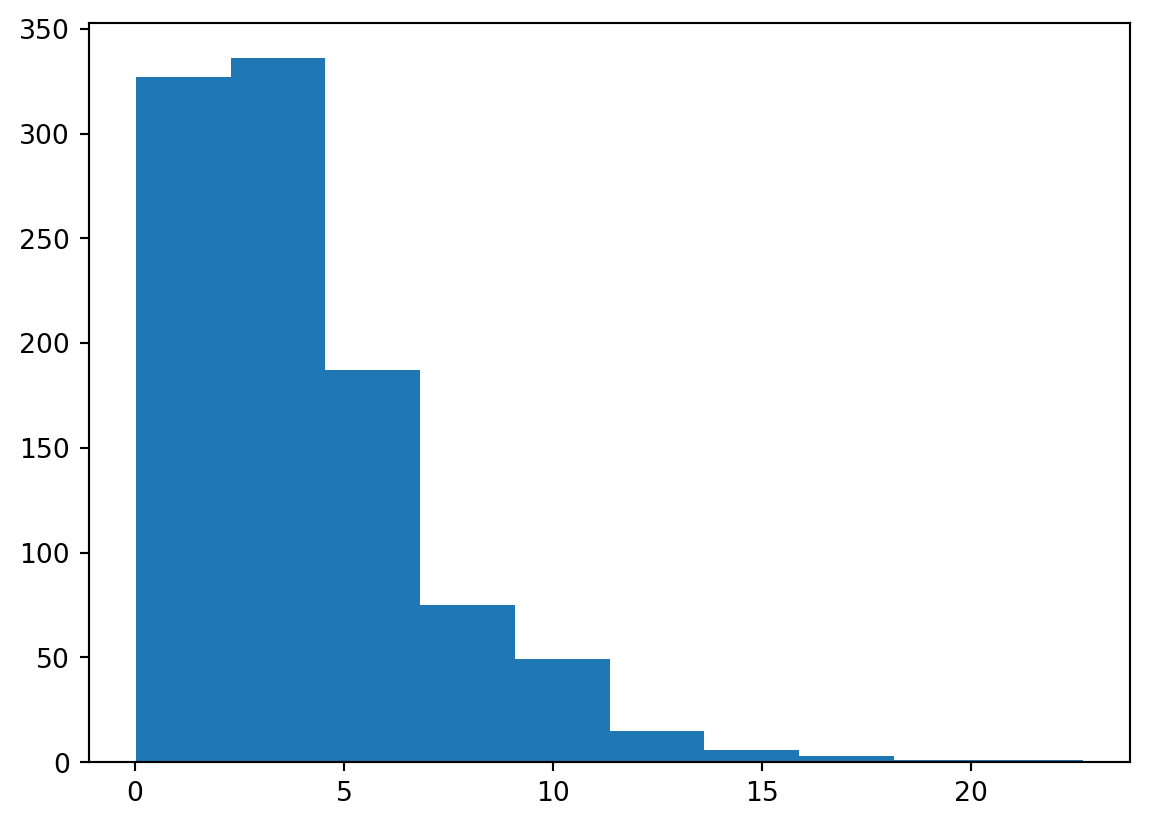
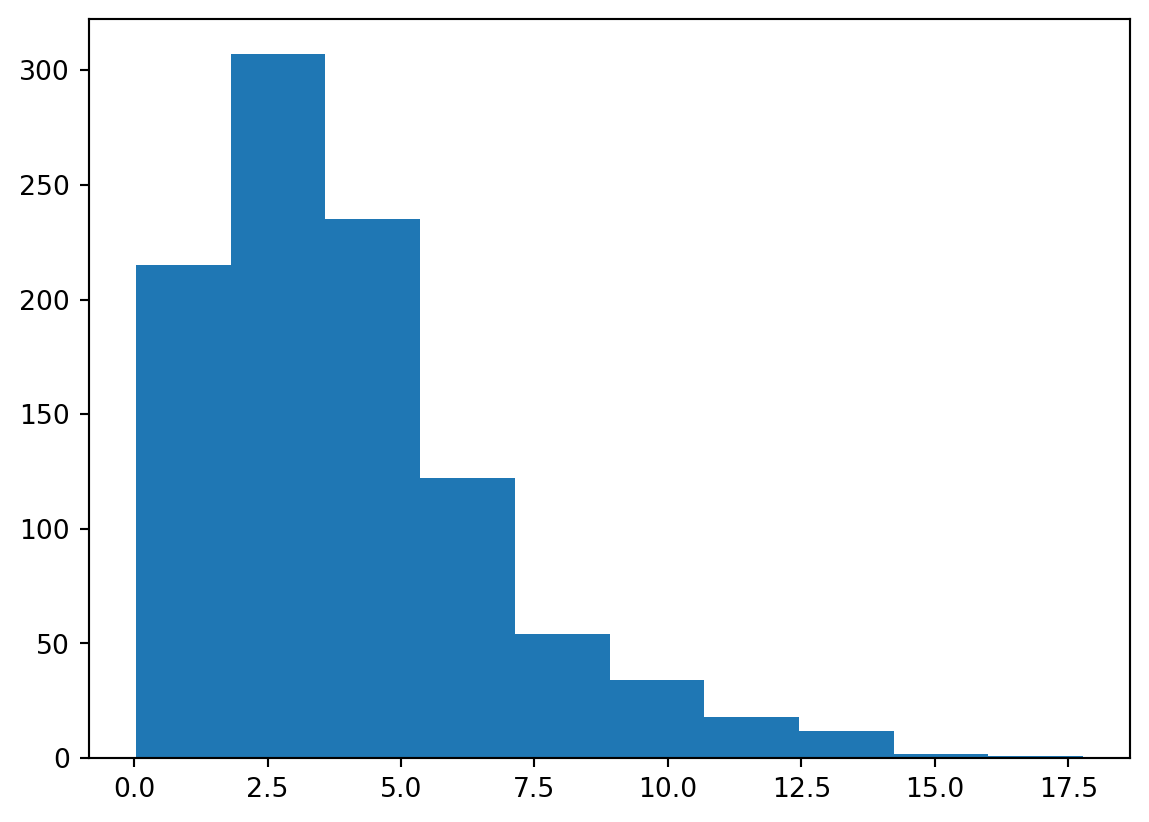
dasdasd

diff --git a/docs/posts/hw8/index.html b/docs/posts/hw8/index.html
@@ -226,7 +226,7 @@ pre > code.sourceCode > span > a:first-child::before { text-decoration: underlin
 </section>
 <section id="adp-실기-시험의-통계파트-표준점수의-밀도함수를-그려보세요." class="level2">
 <h2 class="anchored" data-anchor-id="adp-실기-시험의-통계파트-표준점수의-밀도함수를-그려보세요.">1 ADP 실기 시험의 통계파트 표준점수의 밀도함수를 그려보세요.</h2>
-<div id="41ffb000" class="cell" data-execution_count="1">
+<div id="1f22dc30" class="cell" data-execution_count="1">
 <div class="sourceCode cell-code" id="cb1"><pre class="sourceCode python code-with-copy"><code class="sourceCode python"><span id="cb1-1"><a href="#cb1-1" aria-hidden="true" tabindex="-1"></a><span class="im">import</span> numpy <span class="im">as</span> np</span>
 <span id="cb1-2"><a href="#cb1-2" aria-hidden="true" tabindex="-1"></a><span class="im">from</span> scipy.stats <span class="im">import</span> norm</span>
 <span id="cb1-3"><a href="#cb1-3" aria-hidden="true" tabindex="-1"></a><span class="im">import</span> matplotlib.pyplot <span class="im">as</span> plt</span>
@@ -247,7 +247,7 @@ pre > code.sourceCode > span > a:first-child::before { text-decoration: underlin
 </section>
 <section id="adp-수험생을-임의로-1명-선택하여-통계-점수를-조회했을때-45점-보다-높은-점수를-받았을-확률을-구하세요." class="level2">
 <h2 class="anchored" data-anchor-id="adp-수험생을-임의로-1명-선택하여-통계-점수를-조회했을때-45점-보다-높은-점수를-받았을-확률을-구하세요.">2 ADP 수험생을 임의로 1명 선택하여 통계 점수를 조회했을때 45점 보다 높은 점수를 받았을 확률을 구하세요.</h2>
-<div id="cdf400e3" class="cell" data-execution_count="2">
+<div id="840d1fd1" class="cell" data-execution_count="2">
 <div class="sourceCode cell-code" id="cb2"><pre class="sourceCode python code-with-copy"><code class="sourceCode python"><span id="cb2-1"><a href="#cb2-1" aria-hidden="true" tabindex="-1"></a>a <span class="op">=</span> <span class="dv">1</span> <span class="op">-</span> norm.cdf(<span class="dv">45</span>, <span class="dv">30</span>, <span class="dv">5</span>)</span>
 <span id="cb2-2"><a href="#cb2-2" aria-hidden="true" tabindex="-1"></a>a</span></code><button title="Copy to Clipboard" class="code-copy-button"><i class="bi"></i></button></pre></div>
 <div class="cell-output cell-output-display" data-execution_count="2">
@@ -257,7 +257,7 @@ pre > code.sourceCode > span > a:first-child::before { text-decoration: underlin
 </section>
 <section id="슬통이는-상위-10에-해당하는-점수를-얻었다고-한다면-슬통이의-점수는-얼마인지-계산해보세요." class="level2">
 <h2 class="anchored" data-anchor-id="슬통이는-상위-10에-해당하는-점수를-얻었다고-한다면-슬통이의-점수는-얼마인지-계산해보세요.">3 슬통이는 상위 10%에 해당하는 점수를 얻었다고 한다면, 슬통이의 점수는 얼마인지 계산해보세요.</h2>
-<div id="1cf6354a" class="cell" data-execution_count="3">
+<div id="46f83a67" class="cell" data-execution_count="3">
 <div class="sourceCode cell-code" id="cb4"><pre class="sourceCode python code-with-copy"><code class="sourceCode python"><span id="cb4-1"><a href="#cb4-1" aria-hidden="true" tabindex="-1"></a>a <span class="op">=</span> norm.ppf(<span class="fl">0.9</span>, <span class="dv">30</span>, <span class="dv">5</span>)</span>
 <span id="cb4-2"><a href="#cb4-2" aria-hidden="true" tabindex="-1"></a>a</span></code><button title="Copy to Clipboard" class="code-copy-button"><i class="bi"></i></button></pre></div>
 <div class="cell-output cell-output-display" data-execution_count="3">
@@ -267,7 +267,7 @@ pre > code.sourceCode > span > a:first-child::before { text-decoration: underlin
 </section>
 <section id="슬기로운-통계생활의-해당-회차-수강생은-16명이었다고-한다.-16명의-통계-파트-점수를-평균을-내었을-때-이-평균값이-따르는-분포의-확률밀도-함수를-1번의-그래프와-겹쳐-그려보세요." class="level2">
 <h2 class="anchored" data-anchor-id="슬기로운-통계생활의-해당-회차-수강생은-16명이었다고-한다.-16명의-통계-파트-점수를-평균을-내었을-때-이-평균값이-따르는-분포의-확률밀도-함수를-1번의-그래프와-겹쳐-그려보세요.">4 슬기로운 통계생활의 해당 회차 수강생은 16명이었다고 한다. 16명의 통계 파트 점수를 평균을 내었을 때, 이 평균값이 따르는 분포의 확률밀도 함수를 1번의 그래프와 겹쳐 그려보세요.</h2>
-<div id="7f40c356" class="cell" data-execution_count="4">
+<div id="a5463b03" class="cell" data-execution_count="4">
 <div class="sourceCode cell-code" id="cb6"><pre class="sourceCode python code-with-copy"><code class="sourceCode python"><span id="cb6-1"><a href="#cb6-1" aria-hidden="true" tabindex="-1"></a><span class="im">import</span> numpy <span class="im">as</span> np</span>
 <span id="cb6-2"><a href="#cb6-2" aria-hidden="true" tabindex="-1"></a><span class="im">from</span> scipy.stats <span class="im">import</span> norm</span>
 <span id="cb6-3"><a href="#cb6-3" aria-hidden="true" tabindex="-1"></a><span class="im">import</span> matplotlib.pyplot <span class="im">as</span> plt</span>
@@ -295,7 +295,7 @@ pre > code.sourceCode > span > a:first-child::before { text-decoration: underlin
 </section>
 <section id="슬기로운-통계생활-adp-반-수강생들의-통계점수를-평균내었다고-할-때-이-값이-38점보다-높게-나올-확률을-구하세요." class="level2">
 <h2 class="anchored" data-anchor-id="슬기로운-통계생활-adp-반-수강생들의-통계점수를-평균내었다고-할-때-이-값이-38점보다-높게-나올-확률을-구하세요.">5 슬기로운 통계생활 ADP 반 수강생들의 통계점수를 평균내었다고 할 때, 이 값이 38점보다 높게 나올 확률을 구하세요.</h2>
-<div id="611e2e00" class="cell" data-execution_count="5">
+<div id="8edc2b56" class="cell" data-execution_count="5">
 <div class="sourceCode cell-code" id="cb7"><pre class="sourceCode python code-with-copy"><code class="sourceCode python"><span id="cb7-1"><a href="#cb7-1" aria-hidden="true" tabindex="-1"></a><span class="im">from</span> scipy.stats <span class="im">import</span> norm</span>
 <span id="cb7-2"><a href="#cb7-2" aria-hidden="true" tabindex="-1"></a></span>
 <span id="cb7-3"><a href="#cb7-3" aria-hidden="true" tabindex="-1"></a>d <span class="op">=</span> <span class="dv">1</span> <span class="op">-</span> norm.cdf(<span class="dv">38</span>, <span class="dv">30</span>, <span class="dv">5</span><span class="op">/</span><span class="dv">4</span>)</span>
@@ -310,7 +310,7 @@ pre > code.sourceCode > span > a:first-child::before { text-decoration: underlin
 <h1>2. Covid 19</h1>
 <section id="다잡아-키트가-코로나-바이러스에-걸린-사람을-양성으로-잡아낼-확률을-계산하세요." class="level2">
 <h2 class="anchored" data-anchor-id="다잡아-키트가-코로나-바이러스에-걸린-사람을-양성으로-잡아낼-확률을-계산하세요.">1 다잡아 키트가 코로나 바이러스에 걸린 사람을 양성으로 잡아낼 확률을 계산하세요.</h2>
-<div id="4a05817c" class="cell" data-execution_count="6">
+<div id="92162d41" class="cell" data-execution_count="6">
 <div class="sourceCode cell-code" id="cb9"><pre class="sourceCode python code-with-copy"><code class="sourceCode python"><span id="cb9-1"><a href="#cb9-1" aria-hidden="true" tabindex="-1"></a><span class="co"># P(양성|코로나)</span></span>
 <span id="cb9-2"><a href="#cb9-2" aria-hidden="true" tabindex="-1"></a></span>
 <span id="cb9-3"><a href="#cb9-3" aria-hidden="true" tabindex="-1"></a>a <span class="op">=</span> <span class="dv">370</span><span class="op">/</span><span class="dv">385</span></span>
@@ -322,7 +322,7 @@ pre > code.sourceCode > span > a:first-child::before { text-decoration: underlin
 </section>
 <section id="슬통-회사에서-다잡아-키트를-사용해-양성으로-나온-사람이-실제로는-코로나-바이러스에-걸려-있을-확률을-97라며-키트의-우수성을-주장했다.-이-주장이-옳지-않은-이유를-서술하세요-covid19-발병률을-사용하여-키트의-결과값이-양성으로-나온-사람이-실제로-코로나-바이러스에-걸려있을-확률을-구하세요." class="level2">
 <h2 class="anchored" data-anchor-id="슬통-회사에서-다잡아-키트를-사용해-양성으로-나온-사람이-실제로는-코로나-바이러스에-걸려-있을-확률을-97라며-키트의-우수성을-주장했다.-이-주장이-옳지-않은-이유를-서술하세요-covid19-발병률을-사용하여-키트의-결과값이-양성으로-나온-사람이-실제로-코로나-바이러스에-걸려있을-확률을-구하세요.">2 &amp; 3 슬통 회사에서 다잡아 키트를 사용해 양성으로 나온 사람이 실제로는 코로나 바이러스에 걸려 있을 확률을 97%라며, 키트의 우수성을 주장했다. 이 주장이 옳지 않은 이유를 서술하세요, Covid‑19 발병률을 사용하여, 키트의 결과값이 양성으로 나온 사람이 실제로 코로나 바이러스에 걸려있을 확률을 구하세요.</h2>
-<div id="cfc0ff15" class="cell" data-execution_count="7">
+<div id="d7b36e45" class="cell" data-execution_count="7">
 <div class="sourceCode cell-code" id="cb11"><pre class="sourceCode python code-with-copy"><code class="sourceCode python"><span id="cb11-1"><a href="#cb11-1" aria-hidden="true" tabindex="-1"></a>b <span class="op">=</span> <span class="dv">370</span><span class="op">/</span><span class="dv">380</span></span>
 <span id="cb11-2"><a href="#cb11-2" aria-hidden="true" tabindex="-1"></a>b <span class="co">#0.97</span></span>
 <span id="cb11-3"><a href="#cb11-3" aria-hidden="true" tabindex="-1"></a></span>
@@ -333,16 +333,16 @@ pre > code.sourceCode > span > a:first-child::before { text-decoration: underlin
 <span id="cb11-8"><a href="#cb11-8" aria-hidden="true" tabindex="-1"></a></span>
 <span id="cb11-9"><a href="#cb11-9" aria-hidden="true" tabindex="-1"></a>c <span class="op">=</span> <span class="fl">0.01</span></span>
 <span id="cb11-10"><a href="#cb11-10" aria-hidden="true" tabindex="-1"></a></span>
-<span id="cb11-11"><a href="#cb11-11" aria-hidden="true" tabindex="-1"></a>p_c <span class="op">=</span> <span class="dv">370</span><span class="op">/</span><span class="dv">385</span> <span class="op">*</span> <span class="fl">0.01</span></span>
-<span id="cb11-12"><a href="#cb11-12" aria-hidden="true" tabindex="-1"></a>p_not_c <span class="op">=</span> <span class="dv">10</span><span class="op">/</span><span class="dv">700</span> <span class="op">*</span> <span class="fl">0.99</span></span>
+<span id="cb11-11"><a href="#cb11-11" aria-hidden="true" tabindex="-1"></a>p_c <span class="op">=</span> <span class="dv">370</span><span class="op">/</span><span class="dv">385</span> </span>
+<span id="cb11-12"><a href="#cb11-12" aria-hidden="true" tabindex="-1"></a>p_not_c <span class="op">=</span> <span class="dv">10</span><span class="op">/</span><span class="dv">700</span> </span>
 <span id="cb11-13"><a href="#cb11-13" aria-hidden="true" tabindex="-1"></a></span>
-<span id="cb11-14"><a href="#cb11-14" aria-hidden="true" tabindex="-1"></a>p <span class="op">=</span> p_c <span class="op">+</span> p_not_c </span>
+<span id="cb11-14"><a href="#cb11-14" aria-hidden="true" tabindex="-1"></a>p <span class="op">=</span> p_c <span class="op">*</span> <span class="fl">0.01</span> <span class="op">+</span> p_not_c  <span class="op">*</span> <span class="fl">0.99</span></span>
 <span id="cb11-15"><a href="#cb11-15" aria-hidden="true" tabindex="-1"></a></span>
 <span id="cb11-16"><a href="#cb11-16" aria-hidden="true" tabindex="-1"></a>c_p <span class="op">=</span> (c <span class="op">*</span> p_c) <span class="op">/</span> p</span>
 <span id="cb11-17"><a href="#cb11-17" aria-hidden="true" tabindex="-1"></a></span>
 <span id="cb11-18"><a href="#cb11-18" aria-hidden="true" tabindex="-1"></a>c_p <span class="co"># 키트 양성인 사람 중 코로나 양성 확률 </span></span></code><button title="Copy to Clipboard" class="code-copy-button"><i class="bi"></i></button></pre></div>
 <div class="cell-output cell-output-display" data-execution_count="7">
-<pre><code>0.004045926735921268</code></pre>
+<pre><code>0.4045926735921268</code></pre>
 </div>
 </div>
 <section id="는-사전-확률이고-베이즈-정리를-통해-나온-약-40의-사후-확률이-더-정확한-의미에서의-양성으로-나온-사람이-실제로는-코로나-바이러스에-걸려있을-확률이다." class="level3">
@@ -354,7 +354,7 @@ pre > code.sourceCode > span > a:first-child::before { text-decoration: underlin
 <h1>3. 카이제곱분포와 표본분산</h1>
 <section id="자유도가-4인-카이제곱분포의-확률밀도함수를-그려보세요" class="level2">
 <h2 class="anchored" data-anchor-id="자유도가-4인-카이제곱분포의-확률밀도함수를-그려보세요">1 자유도가 4인 카이제곱분포의 확률밀도함수를 그려보세요</h2>
-<div id="20ddf48a" class="cell" data-execution_count="8">
+<div id="295f1d86" class="cell" data-execution_count="8">
 <div class="sourceCode cell-code" id="cb13"><pre class="sourceCode python code-with-copy"><code class="sourceCode python"><span id="cb13-1"><a href="#cb13-1" aria-hidden="true" tabindex="-1"></a><span class="im">from</span> scipy.stats <span class="im">import</span> chi2</span>
 <span id="cb13-2"><a href="#cb13-2" aria-hidden="true" tabindex="-1"></a><span class="im">import</span> numpy <span class="im">as</span> np</span>
 <span id="cb13-3"><a href="#cb13-3" aria-hidden="true" tabindex="-1"></a><span class="im">import</span> matplotlib.pyplot <span class="im">as</span> plt</span>
@@ -375,7 +375,7 @@ pre > code.sourceCode > span > a:first-child::before { text-decoration: underlin
 </section>
 <section id="다음의-확률을-구해보세요-p3-x-5" class="level2">
 <h2 class="anchored" data-anchor-id="다음의-확률을-구해보세요-p3-x-5">2 다음의 확률을 구해보세요 P(3 &lt;= X &lt;= 5)</h2>
-<div id="b468f15f" class="cell" data-execution_count="9">
+<div id="a5b0a55e" class="cell" data-execution_count="9">
 <div class="sourceCode cell-code" id="cb14"><pre class="sourceCode python code-with-copy"><code class="sourceCode python"><span id="cb14-1"><a href="#cb14-1" aria-hidden="true" tabindex="-1"></a>right <span class="op">=</span> chi2.cdf(<span class="dv">5</span>, <span class="dv">4</span>)</span>
 <span id="cb14-2"><a href="#cb14-2" aria-hidden="true" tabindex="-1"></a>left <span class="op">=</span> chi2.cdf(<span class="dv">3</span>, <span class="dv">4</span>)</span>
 <span id="cb14-3"><a href="#cb14-3" aria-hidden="true" tabindex="-1"></a></span>
@@ -387,14 +387,14 @@ pre > code.sourceCode > span > a:first-child::before { text-decoration: underlin
 </section>
 <section id="자유도가-4인-카이제곱분포에서-크기가-1000인-표본을-뽑은-후-히스토그램을-그려보세요." class="level2">
 <h2 class="anchored" data-anchor-id="자유도가-4인-카이제곱분포에서-크기가-1000인-표본을-뽑은-후-히스토그램을-그려보세요.">3 자유도가 4인 카이제곱분포에서 크기가 1000인 표본을 뽑은 후, 히스토그램을 그려보세요.</h2>
-<div id="0682cf48" class="cell" data-execution_count="10">
+<div id="f063c5d9" class="cell" data-execution_count="10">
 <div class="sourceCode cell-code" id="cb16"><pre class="sourceCode python code-with-copy"><code class="sourceCode python"><span id="cb16-1"><a href="#cb16-1" aria-hidden="true" tabindex="-1"></a>a <span class="op">=</span> chi2.rvs(<span class="dv">4</span>, size <span class="op">=</span> <span class="dv">1000</span>)</span>
 <span id="cb16-2"><a href="#cb16-2" aria-hidden="true" tabindex="-1"></a>plt.hist(a)</span>
 <span id="cb16-3"><a href="#cb16-3" aria-hidden="true" tabindex="-1"></a>plt.show()</span></code><button title="Copy to Clipboard" class="code-copy-button"><i class="bi"></i></button></pre></div>
 <div class="cell-output cell-output-display">
 <div>
 <figure class="figure">
-<p><img src="index_files/figure-html/cell-11-output-1.png" width="575" height="413" class="figure-img"></p>
+<p><img src="index_files/figure-html/cell-11-output-1.png" width="575" height="411" class="figure-img"></p>
 </figure>
 </div>
 </div>
@@ -402,7 +402,7 @@ pre > code.sourceCode > span > a:first-child::before { text-decoration: underlin
 </section>
 <section id="자유도가-4인-카이제곱분포를-따르는-확률변수에서-나올-수-있는-값-중-상위-5에-해당하는-값은-얼마인지-계산해보세요." class="level2">
 <h2 class="anchored" data-anchor-id="자유도가-4인-카이제곱분포를-따르는-확률변수에서-나올-수-있는-값-중-상위-5에-해당하는-값은-얼마인지-계산해보세요.">4 자유도가 4인 카이제곱분포를 따르는 확률변수에서 나올 수 있는 값 중 상위 5%에 해당하는 값은 얼마인지 계산해보세요.</h2>
-<div id="dbc4d915" class="cell" data-execution_count="11">
+<div id="4c56c3ef" class="cell" data-execution_count="11">
 <div class="sourceCode cell-code" id="cb17"><pre class="sourceCode python code-with-copy"><code class="sourceCode python"><span id="cb17-1"><a href="#cb17-1" aria-hidden="true" tabindex="-1"></a>chi2.ppf(<span class="fl">0.95</span>, <span class="dv">4</span>)</span></code><button title="Copy to Clipboard" class="code-copy-button"><i class="bi"></i></button></pre></div>
 <div class="cell-output cell-output-display" data-execution_count="11">
 <pre><code>np.float64(9.487729036781154)</code></pre>
@@ -411,7 +411,7 @@ pre > code.sourceCode > span > a:first-child::before { text-decoration: underlin
 </section>
 <section id="번에서-뽑힌-표본값들-중-상위-5에-위치한-표본의-값은-얼마인가요" class="level2">
 <h2 class="anchored" data-anchor-id="번에서-뽑힌-표본값들-중-상위-5에-위치한-표본의-값은-얼마인가요">5 3번에서 뽑힌 표본값들 중 상위 5%에 위치한 표본의 값은 얼마인가요?</h2>
-<div id="104b2541" class="cell" data-execution_count="12">
+<div id="5ce68bf3" class="cell" data-execution_count="12">
 <div class="sourceCode cell-code" id="cb19"><pre class="sourceCode python code-with-copy"><code class="sourceCode python"><span id="cb19-1"><a href="#cb19-1" aria-hidden="true" tabindex="-1"></a>chi2.ppf(<span class="fl">0.9975</span>, <span class="dv">4</span>)</span></code><button title="Copy to Clipboard" class="code-copy-button"><i class="bi"></i></button></pre></div>
 <div class="cell-output cell-output-display" data-execution_count="12">
 <pre><code>np.float64(16.423936124136556)</code></pre>
@@ -420,7 +420,7 @@ pre > code.sourceCode > span > a:first-child::before { text-decoration: underlin
 </section>
 <section id="평균이-3-표준편차가-2인-정규분포를-따르는-확률변수에서-크기가-20인-표본-𝑥1-𝑥20을-뽑은-후-표본분산을-계산한-것을-𝑠21이라-생각해보죠.-다음을-수행해보세요" class="level2">
 <h2 class="anchored" data-anchor-id="평균이-3-표준편차가-2인-정규분포를-따르는-확률변수에서-크기가-20인-표본-𝑥1-𝑥20을-뽑은-후-표본분산을-계산한-것을-𝑠21이라-생각해보죠.-다음을-수행해보세요">6 평균이 3, 표준편차가 2인 정규분포를 따르는 확률변수에서 크기가 20인 표본, 𝑥1, …, 𝑥20,을 뽑은 후 표본분산을 계산한 것을 𝑠21이라 생각해보죠. 다음을 수행해보세요!</h2>
-<div id="4b78830a" class="cell" data-execution_count="13">
+<div id="a3adafe5" class="cell" data-execution_count="13">
 <div class="sourceCode cell-code" id="cb21"><pre class="sourceCode python code-with-copy"><code class="sourceCode python"><span id="cb21-1"><a href="#cb21-1" aria-hidden="true" tabindex="-1"></a>std <span class="op">=</span> []</span>
 <span id="cb21-2"><a href="#cb21-2" aria-hidden="true" tabindex="-1"></a></span>
 <span id="cb21-3"><a href="#cb21-3" aria-hidden="true" tabindex="-1"></a><span class="cf">for</span> i <span class="kw">in</span> <span class="bu">range</span>(<span class="dv">500</span>):</span>
@@ -441,7 +441,7 @@ pre > code.sourceCode > span > a:first-child::before { text-decoration: underlin
 <span id="cb21-18"><a href="#cb21-18" aria-hidden="true" tabindex="-1"></a>plt.legend()</span>
 <span id="cb21-19"><a href="#cb21-19" aria-hidden="true" tabindex="-1"></a>plt.show()</span></code><button title="Copy to Clipboard" class="code-copy-button"><i class="bi"></i></button></pre></div>
 <div class="cell-output cell-output-stderr">
-<pre><code>C:\Users\USER\AppData\Local\Temp\ipykernel_1456\1831535740.py:18: UserWarning:
+<pre><code>C:\Users\USER\AppData\Local\Temp\ipykernel_24432\1831535740.py:18: UserWarning:
 
 No artists with labels found to put in legend.  Note that artists whose label start with an underscore are ignored when legend() is called with no argument.
 </code></pre>

diff --git a/docs/blog.html b/docs/blog.html
@@ -223,7 +223,7 @@ Recent posts
 </div>
 </a>
 </div>
-<div class="g-col-1" data-index="1" data-categories="bigdata" data-listing-date-sort="1725289200000" data-listing-file-modified-sort="1725291398904" data-listing-date-modified-sort="NaN" data-listing-reading-time-sort="3" data-listing-word-count-sort="442">
+<div class="g-col-1" data-index="1" data-categories="bigdata" data-listing-date-sort="1725289200000" data-listing-file-modified-sort="1725291608813" data-listing-date-modified-sort="NaN" data-listing-reading-time-sort="3" data-listing-word-count-sort="444">
 <a href="./posts/hw8/index.html" class="quarto-grid-link">
 <div class="quarto-grid-item card h-100 card-left">
 <p class="card-img-top"><img src="posts\hw8\youn35.gif" style="height: 150px;"  class="thumbnail-image card-img"/></p>
@@ -244,7 +244,7 @@ bigdata
 </section>
 <section id="adp-실기-시험의-통계파트-표준점수의-밀도함수를-그려보세요." class="level2">
 
-<div id="41ffb000" class="cell" data-execution_count="1">
+<div id="1f22dc30" class="cell" data-execution_count="1">
 <div class="sourceCode cell-code" id="cb1"><pre class="sourceCode python code-with-copy"><code class="sourceCode python"><span id="cb1-1"><span class="im">import</span> numpy <span class="im">as</span> np</span>
 <span id="cb1-2"><span class="im">from</span> scipy.stats <span class="im">import</span> norm</span>
 <span id="cb1-3"><span class="im">import</span> matplotlib.pyplot <span class="im">as</span> plt</span>
@@ -261,7 +261,7 @@ bigdata
 </figure>
 </div>
 </div>
-</div>…</section><section id="adp-수험생을-임의로-1명-선택하여-통계-점수를-조회했을때-45점-보다-높은-점수를-받았을-확률을-구하세요." class="level2"><div id="cdf400e3" class="cell" data-execution_count="2"><div class="sourceCode cell-code" id="cb2"><pre class="sourceCode python code-with-copy"><code class="sourceCode python"><span id="cb2-1"><span class="op"></span><span class="dv"></span><span class="op"></span><span class="dv"></span><span class="dv"></span><span class="dv"></span></span><span id="cb2-2"></span></code></pre></div><div class="cell-output cell-output-display" data-execution_count="2"><pre><code></code></pre></div></div></section><section id="슬통이는-상위-10에-해당하는-점수를-얻었다고-한다면-슬통이의-점수는-얼마인지-계산해보세요." class="level2"><div id="1cf6354a" class="cell" data-execution_count="3"><div class="sourceCode cell-code" id="cb4"><pre class="sourceCode python code-with-copy"><code class="sourceCode python"><span id="cb4-1"><span class="op"></span><span class="fl"></span><span class="dv"></span><span class="dv"></span></span><span id="cb4-2"></span></code></pre></div><div class="cell-output cell-output-display" data-execution_count="3"><pre><code></code></pre></div></div></section><section id="슬기로운-통계생활의-해당-회차-수강생은-16명이었다고-한다.-16명의-통계-파트-점수를-평균을-내었을-때-이-평균값이-따르는-분포의-확률밀도-함수를-1번의-그래프와-겹쳐-그려보세요." class="level2"><div id="7f40c356" class="cell" data-execution_count="4"><div class="sourceCode cell-code" id="cb6"><pre class="sourceCode python code-with-copy"><code class="sourceCode python"><span id="cb6-1"><span class="im"></span><span class="im"></span></span><span id="cb6-2"><span class="im"></span><span class="im"></span></span><span id="cb6-3"><span class="im"></span><span class="im"></span></span><span id="cb6-4"></span><span id="cb6-5"><span class="op"></span><span class="dv"></span><span class="dv"></span><span class="dv"></span></span><span id="cb6-6"><span class="op"></span><span class="dv"></span><span class="dv"></span></span><span id="cb6-7"></span><span id="cb6-8"><span class="op"></span><span class="dv"></span><span class="dv"></span><span class="dv"></span></span><span id="cb6-9"><span class="op"></span><span class="dv"></span><span class="dv"></span><span class="op"></span><span class="dv"></span></span><span id="cb6-10"></span><span id="cb6-11"><span class="op"></span><span class="st"></span></span><span id="cb6-12"><span class="op"></span><span class="st"></span></span><span id="cb6-13"></span><span id="cb6-14"></span><span id="cb6-15"></span><span id="cb6-16"></span></code></pre></div><div class="cell-output cell-output-display"><div><figure class="figure"><p></p></figure></div></div></div></section><section id="슬기로운-통계생활-adp-반-수강생들의-통계점수를-평균내었다고-할-때-이-값이-38점보다-높게-나올-확률을-구하세요." class="level2"><div id="611e2e00" class="cell" data-execution_count="5"><div class="sourceCode cell-code" id="cb7"><pre class="sourceCode python code-with-copy"><code class="sourceCode python"><span id="cb7-1"><span class="im"></span><span class="im"></span></span><span id="cb7-2"></span><span id="cb7-3"><span class="op"></span><span class="dv"></span><span class="op"></span><span class="dv"></span><span class="dv"></span><span class="dv"></span><span class="op"></span><span class="dv"></span></span><span id="cb7-4"></span></code></pre></div><div class="cell-output cell-output-display" data-execution_count="5"><pre><code></code></pre></div></div></section>
+</div>…</section><section id="adp-수험생을-임의로-1명-선택하여-통계-점수를-조회했을때-45점-보다-높은-점수를-받았을-확률을-구하세요." class="level2"><div id="840d1fd1" class="cell" data-execution_count="2"><div class="sourceCode cell-code" id="cb2"><pre class="sourceCode python code-with-copy"><code class="sourceCode python"><span id="cb2-1"><span class="op"></span><span class="dv"></span><span class="op"></span><span class="dv"></span><span class="dv"></span><span class="dv"></span></span><span id="cb2-2"></span></code></pre></div><div class="cell-output cell-output-display" data-execution_count="2"><pre><code></code></pre></div></div></section><section id="슬통이는-상위-10에-해당하는-점수를-얻었다고-한다면-슬통이의-점수는-얼마인지-계산해보세요." class="level2"><div id="46f83a67" class="cell" data-execution_count="3"><div class="sourceCode cell-code" id="cb4"><pre class="sourceCode python code-with-copy"><code class="sourceCode python"><span id="cb4-1"><span class="op"></span><span class="fl"></span><span class="dv"></span><span class="dv"></span></span><span id="cb4-2"></span></code></pre></div><div class="cell-output cell-output-display" data-execution_count="3"><pre><code></code></pre></div></div></section><section id="슬기로운-통계생활의-해당-회차-수강생은-16명이었다고-한다.-16명의-통계-파트-점수를-평균을-내었을-때-이-평균값이-따르는-분포의-확률밀도-함수를-1번의-그래프와-겹쳐-그려보세요." class="level2"><div id="a5463b03" class="cell" data-execution_count="4"><div class="sourceCode cell-code" id="cb6"><pre class="sourceCode python code-with-copy"><code class="sourceCode python"><span id="cb6-1"><span class="im"></span><span class="im"></span></span><span id="cb6-2"><span class="im"></span><span class="im"></span></span><span id="cb6-3"><span class="im"></span><span class="im"></span></span><span id="cb6-4"></span><span id="cb6-5"><span class="op"></span><span class="dv"></span><span class="dv"></span><span class="dv"></span></span><span id="cb6-6"><span class="op"></span><span class="dv"></span><span class="dv"></span></span><span id="cb6-7"></span><span id="cb6-8"><span class="op"></span><span class="dv"></span><span class="dv"></span><span class="dv"></span></span><span id="cb6-9"><span class="op"></span><span class="dv"></span><span class="dv"></span><span class="op"></span><span class="dv"></span></span><span id="cb6-10"></span><span id="cb6-11"><span class="op"></span><span class="st"></span></span><span id="cb6-12"><span class="op"></span><span class="st"></span></span><span id="cb6-13"></span><span id="cb6-14"></span><span id="cb6-15"></span><span id="cb6-16"></span></code></pre></div><div class="cell-output cell-output-display"><div><figure class="figure"><p></p></figure></div></div></div></section><section id="슬기로운-통계생활-adp-반-수강생들의-통계점수를-평균내었다고-할-때-이-값이-38점보다-높게-나올-확률을-구하세요." class="level2"><div id="8edc2b56" class="cell" data-execution_count="5"><div class="sourceCode cell-code" id="cb7"><pre class="sourceCode python code-with-copy"><code class="sourceCode python"><span id="cb7-1"><span class="im"></span><span class="im"></span></span><span id="cb7-2"></span><span id="cb7-3"><span class="op"></span><span class="dv"></span><span class="op"></span><span class="dv"></span><span class="dv"></span><span class="dv"></span><span class="op"></span><span class="dv"></span></span><span id="cb7-4"></span></code></pre></div><div class="cell-output cell-output-display" data-execution_count="5"><pre><code></code></pre></div></div></section>
 </div>
 <div class="card-attribution card-text-small justify">
 <div class="listing-author">

diff --git a/docs/posts/index.html b/docs/posts/index.html
@@ -226,7 +226,7 @@ window.Quarto = {
     </div>
 </div>
 <div class="list grid quarto-listing-cols-3">
-<div class="g-col-1" data-index="0" data-categories="bigdata" data-listing-date-sort="1725289200000" data-listing-file-modified-sort="1725291398904" data-listing-date-modified-sort="NaN" data-listing-reading-time-sort="3" data-listing-word-count-sort="442">
+<div class="g-col-1" data-index="0" data-categories="bigdata" data-listing-date-sort="1725289200000" data-listing-file-modified-sort="1725291608813" data-listing-date-modified-sort="NaN" data-listing-reading-time-sort="3" data-listing-word-count-sort="444">
 <a href="../posts/hw8/index.html" class="quarto-grid-link">
 <div class="quarto-grid-item card h-100 card-left">
 <p class="card-img-top"><img src="hw8\youn35.gif" style="height: 150px;"  class="thumbnail-image card-img"/></p>
